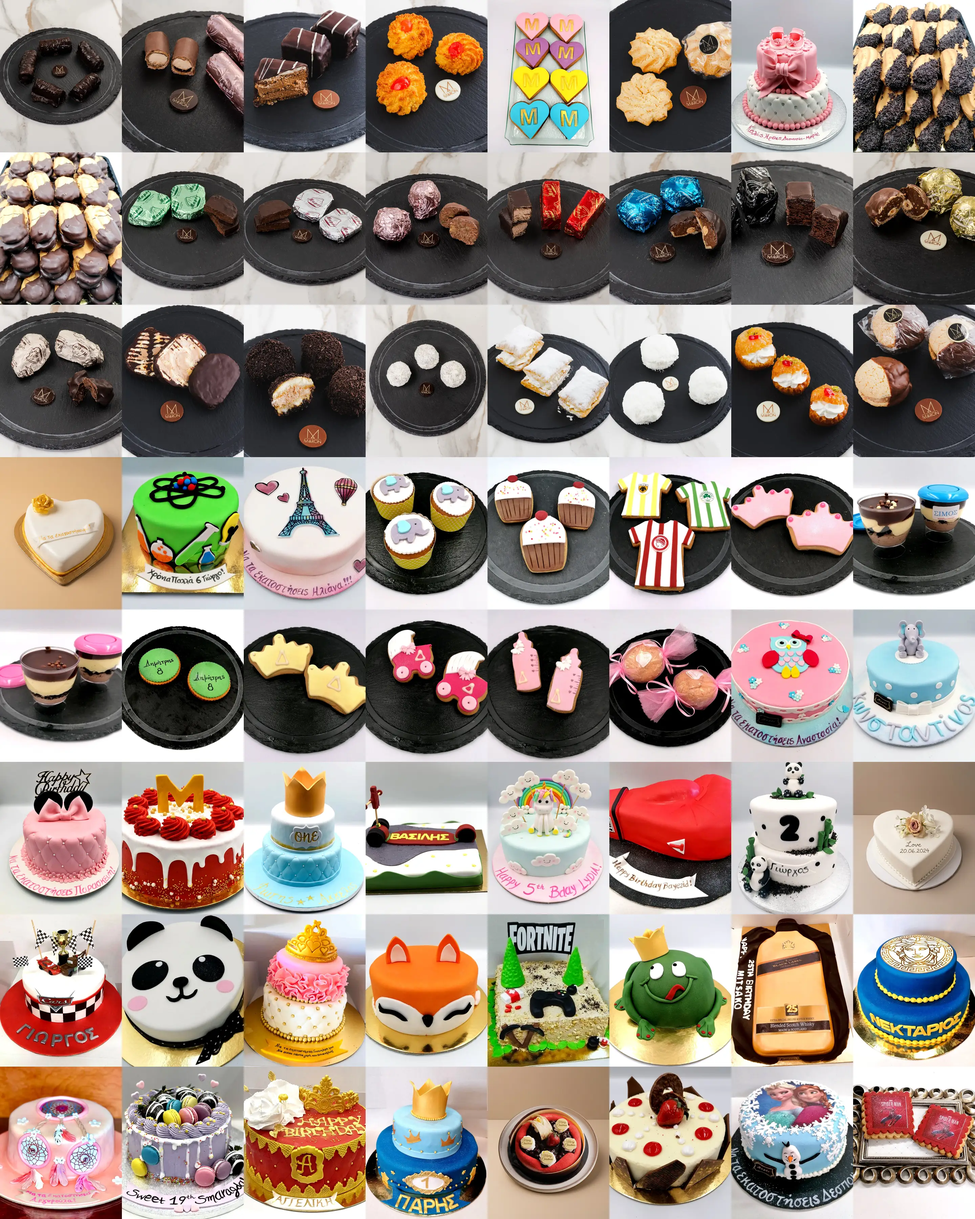
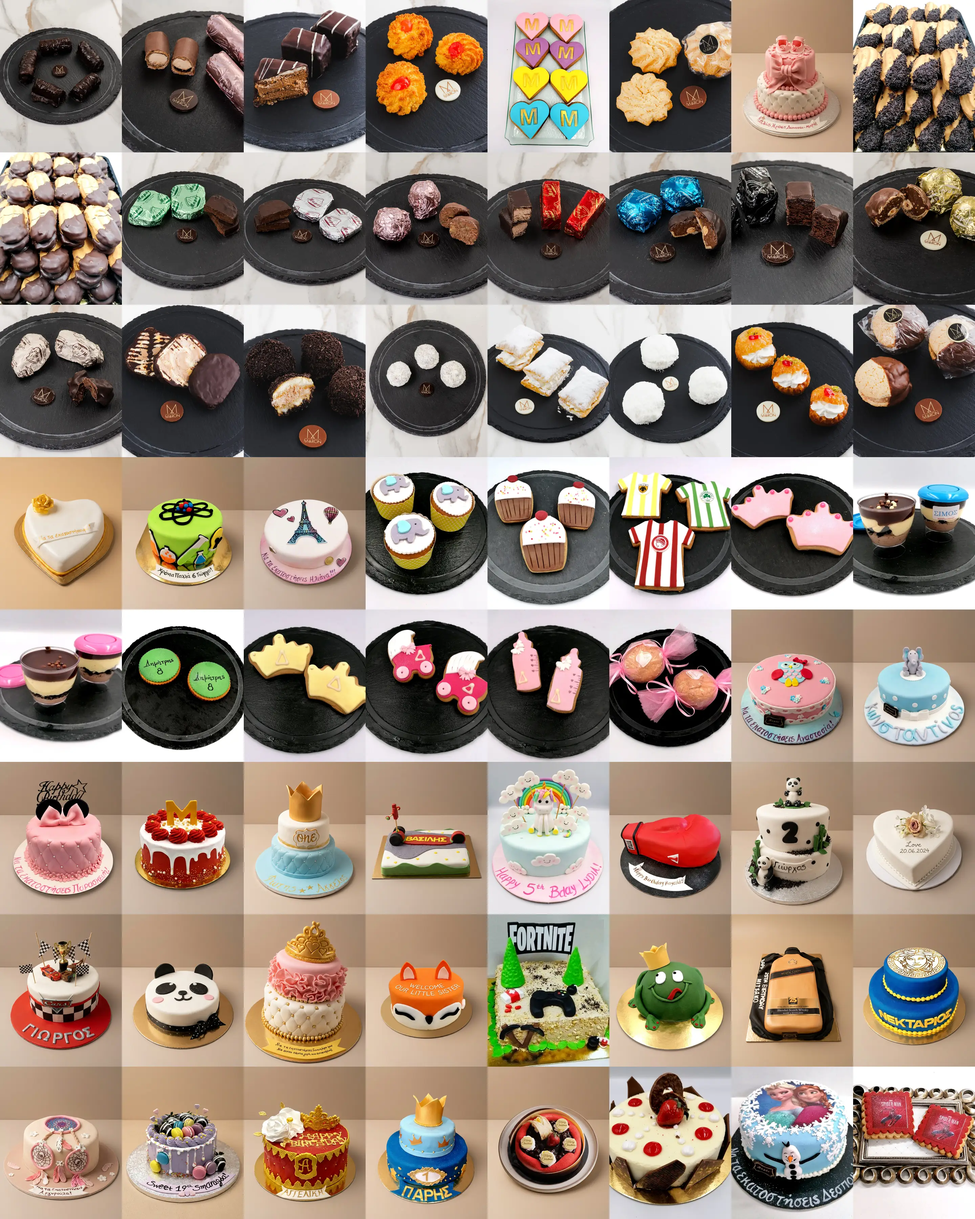
Restyled photos: 503 / 900

diff --git a/proionta.html b/proionta.html
@@ -8,7 +8,7 @@
 <meta name="robots" content="noindex, nofollow">
 <link rel="preconnect" href="https://fonts.googleapis.com"><link rel="preconnect" href="https://fonts.gstatic.com" crossorigin>
 <link rel="stylesheet" href="https://fonts.googleapis.com/css2?family=Commissioner:wght@300;400;500&amp;family=Cormorant+Garamond:ital,wght@1,400;1,500&amp;display=swap">
-<link rel="stylesheet" href="assets/site.css?v=1791325379">
+<link rel="stylesheet" href="assets/site.css?v=1791328024">
 </head>
 <body data-page="catalogue">
 <p class="draftnote">Draft του νέου site: το περιεχόμενο έχει μεταφερθεί από το maron-glykos.gr, δεν είναι ακόμα online.</p>
@@ -76,6 +76,6 @@
   <a href="https://www.instagram.com/maron_greece/" target="_blank" rel="noopener"><svg viewBox="0 0 24 24" aria-hidden="true"><rect x="3" y="3" width="18" height="18" rx="5" fill="none" stroke="currentColor" stroke-width="1.6"/><circle cx="12" cy="12" r="4.2" fill="none" stroke="currentColor" stroke-width="1.6"/><circle cx="17.4" cy="6.6" r="1.1" fill="currentColor"/></svg>Instagram</a>
   <a href="tel:+302105021427"><svg viewBox="0 0 24 24" aria-hidden="true"><path fill="none" stroke="currentColor" stroke-width="1.6" d="M5 3.5h3.5l1.6 4.2-2.2 1.4a11 11 0 0 0 5 5l1.4-2.2 4.2 1.6V17a2.5 2.5 0 0 1-2.7 2.5A15.5 15.5 0 0 1 2.5 6.2 2.5 2.5 0 0 1 5 3.5z"/></svg>Κλήση</a>
 </nav>
-<script src="assets/site.js?v=1791325379"></script>
+<script src="assets/site.js?v=1791328024"></script>
 </body>
 </html>

diff --git a/katigoria.html b/katigoria.html
@@ -8,7 +8,7 @@
 <meta name="robots" content="noindex, nofollow">
 <link rel="preconnect" href="https://fonts.googleapis.com"><link rel="preconnect" href="https://fonts.gstatic.com" crossorigin>
 <link rel="stylesheet" href="https://fonts.googleapis.com/css2?family=Commissioner:wght@300;400;500&amp;family=Cormorant+Garamond:ital,wght@1,400;1,500&amp;display=swap">
-<link rel="stylesheet" href="assets/site.css?v=1791325379">
+<link rel="stylesheet" href="assets/site.css?v=1791328024">
 </head>
 <body data-page="category">
 <p class="draftnote">Draft του νέου site: το περιεχόμενο έχει μεταφερθεί από το maron-glykos.gr, δεν είναι ακόμα online.</p>
@@ -59,6 +59,6 @@
   <a href="https://www.instagram.com/maron_greece/" target="_blank" rel="noopener"><svg viewBox="0 0 24 24" aria-hidden="true"><rect x="3" y="3" width="18" height="18" rx="5" fill="none" stroke="currentColor" stroke-width="1.6"/><circle cx="12" cy="12" r="4.2" fill="none" stroke="currentColor" stroke-width="1.6"/><circle cx="17.4" cy="6.6" r="1.1" fill="currentColor"/></svg>Instagram</a>
   <a href="tel:+302105021427"><svg viewBox="0 0 24 24" aria-hidden="true"><path fill="none" stroke="currentColor" stroke-width="1.6" d="M5 3.5h3.5l1.6 4.2-2.2 1.4a11 11 0 0 0 5 5l1.4-2.2 4.2 1.6V17a2.5 2.5 0 0 1-2.7 2.5A15.5 15.5 0 0 1 2.5 6.2 2.5 2.5 0 0 1 5 3.5z"/></svg>Κλήση</a>
 </nav>
-<script src="assets/site.js?v=1791325379"></script>
+<script src="assets/site.js?v=1791328024"></script>
 </body>
 </html>

diff --git a/proion.html b/proion.html
@@ -8,7 +8,7 @@
 <meta name="robots" content="noindex, nofollow">
 <link rel="preconnect" href="https://fonts.googleapis.com"><link rel="preconnect" href="https://fonts.gstatic.com" crossorigin>
 <link rel="stylesheet" href="https://fonts.googleapis.com/css2?family=Commissioner:wght@300;400;500&amp;family=Cormorant+Garamond:ital,wght@1,400;1,500&amp;display=swap">
-<link rel="stylesheet" href="assets/site.css?v=1791325379">
+<link rel="stylesheet" href="assets/site.css?v=1791328024">
 </head>
 <body data-page="product">
 <p class="draftnote">Draft του νέου site: το περιεχόμενο έχει μεταφερθεί από το maron-glykos.gr, δεν είναι ακόμα online.</p>
@@ -69,6 +69,6 @@
   <a href="https://www.instagram.com/maron_greece/" target="_blank" rel="noopener"><svg viewBox="0 0 24 24" aria-hidden="true"><rect x="3" y="3" width="18" height="18" rx="5" fill="none" stroke="currentColor" stroke-width="1.6"/><circle cx="12" cy="12" r="4.2" fill="none" stroke="currentColor" stroke-width="1.6"/><circle cx="17.4" cy="6.6" r="1.1" fill="currentColor"/></svg>Instagram</a>
   <a href="tel:+302105021427"><svg viewBox="0 0 24 24" aria-hidden="true"><path fill="none" stroke="currentColor" stroke-width="1.6" d="M5 3.5h3.5l1.6 4.2-2.2 1.4a11 11 0 0 0 5 5l1.4-2.2 4.2 1.6V17a2.5 2.5 0 0 1-2.7 2.5A15.5 15.5 0 0 1 2.5 6.2 2.5 2.5 0 0 1 5 3.5z"/></svg>Κλήση</a>
 </nav>
-<script src="assets/site.js?v=1791325379"></script>
+<script src="assets/site.js?v=1791328024"></script>
 </body>
 </html>

diff --git a/index.html b/index.html
@@ -8,7 +8,7 @@
 <meta name="robots" content="noindex, nofollow">
 <link rel="preconnect" href="https://fonts.googleapis.com"><link rel="preconnect" href="https://fonts.gstatic.com" crossorigin>
 <link rel="stylesheet" href="https://fonts.googleapis.com/css2?family=Commissioner:wght@300;400;500&amp;family=Cormorant+Garamond:ital,wght@1,400;1,500&amp;display=swap">
-<link rel="stylesheet" href="assets/site.css?v=1791325379">
+<link rel="stylesheet" href="assets/site.css?v=1791328024">
 </head>
 <body data-page="home">
 <p class="draftnote">Draft του νέου site: το περιεχόμενο έχει μεταφερθεί από το maron-glykos.gr, δεν είναι ακόμα online.</p>
@@ -129,6 +129,6 @@
   <a href="https://www.instagram.com/maron_greece/" target="_blank" rel="noopener"><svg viewBox="0 0 24 24" aria-hidden="true"><rect x="3" y="3" width="18" height="18" rx="5" fill="none" stroke="currentColor" stroke-width="1.6"/><circle cx="12" cy="12" r="4.2" fill="none" stroke="currentColor" stroke-width="1.6"/><circle cx="17.4" cy="6.6" r="1.1" fill="currentColor"/></svg>Instagram</a>
   <a href="tel:+302105021427"><svg viewBox="0 0 24 24" aria-hidden="true"><path fill="none" stroke="currentColor" stroke-width="1.6" d="M5 3.5h3.5l1.6 4.2-2.2 1.4a11 11 0 0 0 5 5l1.4-2.2 4.2 1.6V17a2.5 2.5 0 0 1-2.7 2.5A15.5 15.5 0 0 1 2.5 6.2 2.5 2.5 0 0 1 5 3.5z"/></svg>Κλήση</a>
 </nav>
-<script src="assets/site.js?v=1791325379"></script>
+<script src="assets/site.js?v=1791328024"></script>
 </body>
 </html>

diff --git a/apokries.html b/apokries.html
@@ -8,7 +8,7 @@
 <meta name="robots" content="noindex, nofollow">
 <link rel="preconnect" href="https://fonts.googleapis.com"><link rel="preconnect" href="https://fonts.gstatic.com" crossorigin>
 <link rel="stylesheet" href="https://fonts.googleapis.com/css2?family=Commissioner:wght@300;400;500&amp;family=Cormorant+Garamond:ital,wght@1,400;1,500&amp;display=swap">
-<link rel="stylesheet" href="assets/site.css?v=1791325379">
+<link rel="stylesheet" href="assets/site.css?v=1791328024">
 </head>
 <body data-page="page">
 <p class="draftnote">Draft του νέου site: το περιεχόμενο έχει μεταφερθεί από το maron-glykos.gr, δεν είναι ακόμα online.</p>
@@ -56,6 +56,6 @@
   <a href="https://www.instagram.com/maron_greece/" target="_blank" rel="noopener"><svg viewBox="0 0 24 24" aria-hidden="true"><rect x="3" y="3" width="18" height="18" rx="5" fill="none" stroke="currentColor" stroke-width="1.6"/><circle cx="12" cy="12" r="4.2" fill="none" stroke="currentColor" stroke-width="1.6"/><circle cx="17.4" cy="6.6" r="1.1" fill="currentColor"/></svg>Instagram</a>
   <a href="tel:+302105021427"><svg viewBox="0 0 24 24" aria-hidden="true"><path fill="none" stroke="currentColor" stroke-width="1.6" d="M5 3.5h3.5l1.6 4.2-2.2 1.4a11 11 0 0 0 5 5l1.4-2.2 4.2 1.6V17a2.5 2.5 0 0 1-2.7 2.5A15.5 15.5 0 0 1 2.5 6.2 2.5 2.5 0 0 1 5 3.5z"/></svg>Κλήση</a>
 </nav>
-<script src="assets/site.js?v=1791325379"></script>
+<script src="assets/site.js?v=1791328024"></script>
 </body>
 </html>

diff --git a/blog-aromata-fthinoporou-zaxaroplastiki.html b/blog-aromata-fthinoporou-zaxaroplastiki.html
@@ -8,7 +8,7 @@
 <meta name="robots" content="noindex, nofollow">
 <link rel="preconnect" href="https://fonts.googleapis.com"><link rel="preconnect" href="https://fonts.gstatic.com" crossorigin>
 <link rel="stylesheet" href="https://fonts.googleapis.com/css2?family=Commissioner:wght@300;400;500&amp;family=Cormorant+Garamond:ital,wght@1,400;1,500&amp;display=swap">
-<link rel="stylesheet" href="assets/site.css?v=1791325379">
+<link rel="stylesheet" href="assets/site.css?v=1791328024">
 </head>
 <body data-page="page">
 <p class="draftnote">Draft του νέου site: το περιεχόμενο έχει μεταφερθεί από το maron-glykos.gr, δεν είναι ακόμα online.</p>
@@ -71,6 +71,6 @@
   <a href="https://www.instagram.com/maron_greece/" target="_blank" rel="noopener"><svg viewBox="0 0 24 24" aria-hidden="true"><rect x="3" y="3" width="18" height="18" rx="5" fill="none" stroke="currentColor" stroke-width="1.6"/><circle cx="12" cy="12" r="4.2" fill="none" stroke="currentColor" stroke-width="1.6"/><circle cx="17.4" cy="6.6" r="1.1" fill="currentColor"/></svg>Instagram</a>
   <a href="tel:+302105021427"><svg viewBox="0 0 24 24" aria-hidden="true"><path fill="none" stroke="currentColor" stroke-width="1.6" d="M5 3.5h3.5l1.6 4.2-2.2 1.4a11 11 0 0 0 5 5l1.4-2.2 4.2 1.6V17a2.5 2.5 0 0 1-2.7 2.5A15.5 15.5 0 0 1 2.5 6.2 2.5 2.5 0 0 1 5 3.5z"/></svg>Κλήση</a>
 </nav>
-<script src="assets/site.js?v=1791325379"></script>
+<script src="assets/site.js?v=1791328024"></script>
 </body>
 </html>

diff --git a/blog-brookie-giati-egine-viral.html b/blog-brookie-giati-egine-viral.html
@@ -8,7 +8,7 @@
 <meta name="robots" content="noindex, nofollow">
 <link rel="preconnect" href="https://fonts.googleapis.com"><link rel="preconnect" href="https://fonts.gstatic.com" crossorigin>
 <link rel="stylesheet" href="https://fonts.googleapis.com/css2?family=Commissioner:wght@300;400;500&amp;family=Cormorant+Garamond:ital,wght@1,400;1,500&amp;display=swap">
-<link rel="stylesheet" href="assets/site.css?v=1791325379">
+<link rel="stylesheet" href="assets/site.css?v=1791328024">
 </head>
 <body data-page="page">
 <p class="draftnote">Draft του νέου site: το περιεχόμενο έχει μεταφερθεί από το maron-glykos.gr, δεν είναι ακόμα online.</p>
@@ -73,6 +73,6 @@
   <a href="https://www.instagram.com/maron_greece/" target="_blank" rel="noopener"><svg viewBox="0 0 24 24" aria-hidden="true"><rect x="3" y="3" width="18" height="18" rx="5" fill="none" stroke="currentColor" stroke-width="1.6"/><circle cx="12" cy="12" r="4.2" fill="none" stroke="currentColor" stroke-width="1.6"/><circle cx="17.4" cy="6.6" r="1.1" fill="currentColor"/></svg>Instagram</a>
   <a href="tel:+302105021427"><svg viewBox="0 0 24 24" aria-hidden="true"><path fill="none" stroke="currentColor" stroke-width="1.6" d="M5 3.5h3.5l1.6 4.2-2.2 1.4a11 11 0 0 0 5 5l1.4-2.2 4.2 1.6V17a2.5 2.5 0 0 1-2.7 2.5A15.5 15.5 0 0 1 2.5 6.2 2.5 2.5 0 0 1 5 3.5z"/></svg>Κλήση</a>
 </nav>
-<script src="assets/site.js?v=1791325379"></script>
+<script src="assets/site.js?v=1791328024"></script>
 </body>
 </html>

diff --git a/blog-dimitris-dimitra-glyko-giortis.html b/blog-dimitris-dimitra-glyko-giortis.html
@@ -8,7 +8,7 @@
 <meta name="robots" content="noindex, nofollow">
 <link rel="preconnect" href="https://fonts.googleapis.com"><link rel="preconnect" href="https://fonts.gstatic.com" crossorigin>
 <link rel="stylesheet" href="https://fonts.googleapis.com/css2?family=Commissioner:wght@300;400;500&amp;family=Cormorant+Garamond:ital,wght@1,400;1,500&amp;display=swap">
-<link rel="stylesheet" href="assets/site.css?v=1791325379">
+<link rel="stylesheet" href="assets/site.css?v=1791328024">
 </head>
 <body data-page="page">
 <p class="draftnote">Draft του νέου site: το περιεχόμενο έχει μεταφερθεί από το maron-glykos.gr, δεν είναι ακόμα online.</p>
@@ -74,6 +74,6 @@
   <a href="https://www.instagram.com/maron_greece/" target="_blank" rel="noopener"><svg viewBox="0 0 24 24" aria-hidden="true"><rect x="3" y="3" width="18" height="18" rx="5" fill="none" stroke="currentColor" stroke-width="1.6"/><circle cx="12" cy="12" r="4.2" fill="none" stroke="currentColor" stroke-width="1.6"/><circle cx="17.4" cy="6.6" r="1.1" fill="currentColor"/></svg>Instagram</a>
   <a href="tel:+302105021427"><svg viewBox="0 0 24 24" aria-hidden="true"><path fill="none" stroke="currentColor" stroke-width="1.6" d="M5 3.5h3.5l1.6 4.2-2.2 1.4a11 11 0 0 0 5 5l1.4-2.2 4.2 1.6V17a2.5 2.5 0 0 1-2.7 2.5A15.5 15.5 0 0 1 2.5 6.2 2.5 2.5 0 0 1 5 3.5z"/></svg>Κλήση</a>
 </nav>
-<script src="assets/site.js?v=1791325379"></script>
+<script src="assets/site.js?v=1791328024"></script>
 </body>
 </html>

diff --git a/blog-epistimi-glykou.html b/blog-epistimi-glykou.html
@@ -8,7 +8,7 @@
 <meta name="robots" content="noindex, nofollow">
 <link rel="preconnect" href="https://fonts.googleapis.com"><link rel="preconnect" href="https://fonts.gstatic.com" crossorigin>
 <link rel="stylesheet" href="https://fonts.googleapis.com/css2?family=Commissioner:wght@300;400;500&amp;family=Cormorant+Garamond:ital,wght@1,400;1,500&amp;display=swap">
-<link rel="stylesheet" href="assets/site.css?v=1791325379">
+<link rel="stylesheet" href="assets/site.css?v=1791328024">
 </head>
 <body data-page="page">
 <p class="draftnote">Draft του νέου site: το περιεχόμενο έχει μεταφερθεί από το maron-glykos.gr, δεν είναι ακόμα online.</p>
@@ -80,6 +80,6 @@
   <a href="https://www.instagram.com/maron_greece/" target="_blank" rel="noopener"><svg viewBox="0 0 24 24" aria-hidden="true"><rect x="3" y="3" width="18" height="18" rx="5" fill="none" stroke="currentColor" stroke-width="1.6"/><circle cx="12" cy="12" r="4.2" fill="none" stroke="currentColor" stroke-width="1.6"/><circle cx="17.4" cy="6.6" r="1.1" fill="currentColor"/></svg>Instagram</a>
   <a href="tel:+302105021427"><svg viewBox="0 0 24 24" aria-hidden="true"><path fill="none" stroke="currentColor" stroke-width="1.6" d="M5 3.5h3.5l1.6 4.2-2.2 1.4a11 11 0 0 0 5 5l1.4-2.2 4.2 1.6V17a2.5 2.5 0 0 1-2.7 2.5A15.5 15.5 0 0 1 2.5 6.2 2.5 2.5 0 0 1 5 3.5z"/></svg>Κλήση</a>
 </nav>
-<script src="assets/site.js?v=1791325379"></script>
+<script src="assets/site.js?v=1791328024"></script>
 </body>
 </html>

diff --git a/blog-istoria-glykou.html b/blog-istoria-glykou.html
@@ -8,7 +8,7 @@
 <meta name="robots" content="noindex, nofollow">
 <link rel="preconnect" href="https://fonts.googleapis.com"><link rel="preconnect" href="https://fonts.gstatic.com" crossorigin>
 <link rel="stylesheet" href="https://fonts.googleapis.com/css2?family=Commissioner:wght@300;400;500&amp;family=Cormorant+Garamond:ital,wght@1,400;1,500&amp;display=swap">
-<link rel="stylesheet" href="assets/site.css?v=1791325379">
+<link rel="stylesheet" href="assets/site.css?v=1791328024">
 </head>
 <body data-page="page">
 <p class="draftnote">Draft του νέου site: το περιεχόμενο έχει μεταφερθεί από το maron-glykos.gr, δεν είναι ακόμα online.</p>
@@ -78,6 +78,6 @@
   <a href="https://www.instagram.com/maron_greece/" target="_blank" rel="noopener"><svg viewBox="0 0 24 24" aria-hidden="true"><rect x="3" y="3" width="18" height="18" rx="5" fill="none" stroke="currentColor" stroke-width="1.6"/><circle cx="12" cy="12" r="4.2" fill="none" stroke="currentColor" stroke-width="1.6"/><circle cx="17.4" cy="6.6" r="1.1" fill="currentColor"/></svg>Instagram</a>
   <a href="tel:+302105021427"><svg viewBox="0 0 24 24" aria-hidden="true"><path fill="none" stroke="currentColor" stroke-width="1.6" d="M5 3.5h3.5l1.6 4.2-2.2 1.4a11 11 0 0 0 5 5l1.4-2.2 4.2 1.6V17a2.5 2.5 0 0 1-2.7 2.5A15.5 15.5 0 0 1 2.5 6.2 2.5 2.5 0 0 1 5 3.5z"/></svg>Κλήση</a>
 </nav>
-<script src="assets/site.js?v=1791325379"></script>
+<script src="assets/site.js?v=1791328024"></script>
 </body>
 </html>

diff --git a/blog-pasxa-egkefalos.html b/blog-pasxa-egkefalos.html
@@ -8,7 +8,7 @@
 <meta name="robots" content="noindex, nofollow">
 <link rel="preconnect" href="https://fonts.googleapis.com"><link rel="preconnect" href="https://fonts.gstatic.com" crossorigin>
 <link rel="stylesheet" href="https://fonts.googleapis.com/css2?family=Commissioner:wght@300;400;500&amp;family=Cormorant+Garamond:ital,wght@1,400;1,500&amp;display=swap">
-<link rel="stylesheet" href="assets/site.css?v=1791325379">
+<link rel="stylesheet" href="assets/site.css?v=1791328024">
 </head>
 <body data-page="page">
 <p class="draftnote">Draft του νέου site: το περιεχόμενο έχει μεταφερθεί από το maron-glykos.gr, δεν είναι ακόμα online.</p>
@@ -78,6 +78,6 @@
   <a href="https://www.instagram.com/maron_greece/" target="_blank" rel="noopener"><svg viewBox="0 0 24 24" aria-hidden="true"><rect x="3" y="3" width="18" height="18" rx="5" fill="none" stroke="currentColor" stroke-width="1.6"/><circle cx="12" cy="12" r="4.2" fill="none" stroke="currentColor" stroke-width="1.6"/><circle cx="17.4" cy="6.6" r="1.1" fill="currentColor"/></svg>Instagram</a>
   <a href="tel:+302105021427"><svg viewBox="0 0 24 24" aria-hidden="true"><path fill="none" stroke="currentColor" stroke-width="1.6" d="M5 3.5h3.5l1.6 4.2-2.2 1.4a11 11 0 0 0 5 5l1.4-2.2 4.2 1.6V17a2.5 2.5 0 0 1-2.7 2.5A15.5 15.5 0 0 1 2.5 6.2 2.5 2.5 0 0 1 5 3.5z"/></svg>Κλήση</a>
 </nav>
-<script src="assets/site.js?v=1791325379"></script>
+<script src="assets/site.js?v=1791328024"></script>
 </body>
 </html>

diff --git a/blog.html b/blog.html
@@ -8,7 +8,7 @@
 <meta name="robots" content="noindex, nofollow">
 <link rel="preconnect" href="https://fonts.googleapis.com"><link rel="preconnect" href="https://fonts.gstatic.com" crossorigin>
 <link rel="stylesheet" href="https://fonts.googleapis.com/css2?family=Commissioner:wght@300;400;500&amp;family=Cormorant+Garamond:ital,wght@1,400;1,500&amp;display=swap">
-<link rel="stylesheet" href="assets/site.css?v=1791325379">
+<link rel="stylesheet" href="assets/site.css?v=1791328024">
 </head>
 <body data-page="page">
 <p class="draftnote">Draft του νέου site: το περιεχόμενο έχει μεταφερθεί από το maron-glykos.gr, δεν είναι ακόμα online.</p>
@@ -54,6 +54,6 @@
   <a href="https://www.instagram.com/maron_greece/" target="_blank" rel="noopener"><svg viewBox="0 0 24 24" aria-hidden="true"><rect x="3" y="3" width="18" height="18" rx="5" fill="none" stroke="currentColor" stroke-width="1.6"/><circle cx="12" cy="12" r="4.2" fill="none" stroke="currentColor" stroke-width="1.6"/><circle cx="17.4" cy="6.6" r="1.1" fill="currentColor"/></svg>Instagram</a>
   <a href="tel:+302105021427"><svg viewBox="0 0 24 24" aria-hidden="true"><path fill="none" stroke="currentColor" stroke-width="1.6" d="M5 3.5h3.5l1.6 4.2-2.2 1.4a11 11 0 0 0 5 5l1.4-2.2 4.2 1.6V17a2.5 2.5 0 0 1-2.7 2.5A15.5 15.5 0 0 1 2.5 6.2 2.5 2.5 0 0 1 5 3.5z"/></svg>Κλήση</a>
 </nav>
-<script src="assets/site.js?v=1791325379"></script>
+<script src="assets/site.js?v=1791328024"></script>
 </body>
 </html>
